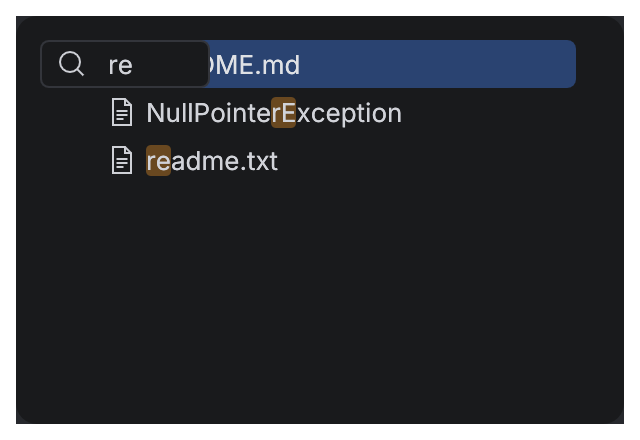
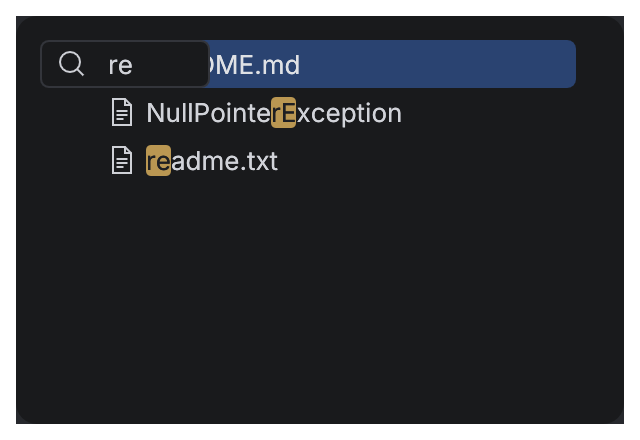
feat(theme): yellow search match with dark text, underlined menu mnemonics, New UI status bar 30
- Colors::search_match is Yellow5 (#BA9752) on the dark themes with a new
  search_match_text (dark) used by styled rows and table cells.
- ActionMenuItem::underlined(char) draws the mnemonic letter underlined.
- New UI look status bar is 30 (29 + 1 line), measured.

Claude-Session: https://claude.ai/code/session_01WPyuoiUPXsVNEFF3fwwQ11

Changed region(s): [[0.4062, 0.2068, 0.4688, 0.2955], [0.2188, 0.325, 0.2812, 0.4136]]

diff --git a/crates/archipel-kit/src/action_system/action_menu_item.rs b/crates/archipel-kit/src/action_system/action_menu_item.rs
@@ -2,7 +2,7 @@
 
 use crate::common;
 use crate::icons::{self, Glyph, Icon};
-use crate::parts::{SimpleColoredComponent, State, Tone};
+use crate::parts::{SimpleColoredComponent, SimpleTextAttributes, State, TextFragment, Tone};
 use crate::theme::Theme;
 use crate::tokens::{popup, size, typography};
 use egui::{
@@ -64,6 +64,8 @@ pub struct ActionMenuItem<'a> {
     fixed_width: Option<f32>,
     /// The label's tone (a combo box colors HTTP methods by it).
     label_tone: Tone,
+    /// The mnemonic letter, drawn underlined in the label.
+    underlined: Option<char>,
 }
 
 /// The content of a submenu.
@@ -88,6 +90,7 @@ impl<'a> ActionMenuItem<'a> {
             mnemonic: None,
             fixed_width: None,
             label_tone: Tone::Default,
+            underlined: None,
         }
     }
 
@@ -104,6 +107,28 @@ impl<'a> ActionMenuItem<'a> {
             item.description = Some(presentation.description.clone());
         }
         item
+    }
+
+    /// Draws the first `letter` of the label underlined, the item's mnemonic (case ignored; a
+    /// letter the label does not contain draws nothing). Typing it is the caller's to handle.
+    pub fn underlined(mut self, letter: char) -> Self {
+        self.underlined = Some(letter);
+        self
+    }
+
+    /// The label split around the underlined mnemonic: text before, the letter, text after.
+    fn mnemonic_split(&self) -> Option<(&str, &str, &str)> {
+        let letter = self.underlined?;
+        let (start, found) = self
+            .label
+            .char_indices()
+            .find(|(_, c)| c.eq_ignore_ascii_case(&letter))?;
+        let end = start + found.len_utf8();
+        Some((
+            &self.label[..start],
+            &self.label[start..end],
+            &self.label[end..],
+        ))
     }
 
     /// Engine use: the list owns highlight, submenus and closing.
@@ -234,12 +259,27 @@ impl Widget for ActionMenuItem<'_> {
             None => menu_icon_column(ui, icon.is_some() || self.checked.is_some()),
         };
         let has_arrow = self.submenu.is_some() || self.arrow;
+        let attributes = SimpleTextAttributes::new(self.label_tone);
+        let split = self.mnemonic_split();
+        let fragments = split.map_or_else(Vec::new, |(_, letter, after)| {
+            vec![
+                TextFragment {
+                    text: letter.to_owned(),
+                    attributes: attributes.underline(true),
+                },
+                TextFragment {
+                    text: after.to_owned(),
+                    attributes,
+                },
+            ]
+        });
         let content = SimpleColoredComponent {
+            fragments: &fragments,
             // A two-line item paints its larger icon itself.
             icon: if two_line { None } else { icon },
             icon_tone,
             reserve_icon: !two_line && reserve_icons,
-            label: &self.label,
+            label: split.map_or(self.label.as_str(), |(before, _, _)| before),
             label_tone: self.label_tone,
             secondary: None,
             trailing: self.shortcut.as_deref().filter(|_| !has_arrow),

diff --git a/crates/archipel-kit/src/theme.rs b/crates/archipel-kit/src/theme.rs
@@ -160,6 +160,9 @@ pub struct Colors {
     /// Background of the part of a row text that matches the speed search
     /// (`SimpleTextAttributes::STYLE_SEARCH_MATCH`; IntelliJ spec §3.4 `SearchMatch` Yellow7).
     pub search_match: Color32,
+    /// Text on [`Colors::search_match`]: dark on the dark themes' yellow so the match stays
+    /// readable (IDE UI spec UI-POP-004: `Yellow5` background with dark text).
+    pub search_match_text: Color32,
     /// Fill of the speed search popup (IntelliJ spec §3.4, §15.3 `SpeedSearch.background`).
     pub speed_search_background: Color32,
     /// 1 pt border of the speed search popup (IntelliJ spec §3.4 `SpeedSearch.borderColor`).
@@ -434,9 +437,10 @@ impl Theme {
                 control_selected: rgb(0x3574F0),
                 selection_inactive: rgb(0x33353B),
                 row_hover: rgba(0xFFFFFF10),
-                // Spec §3.4 lists only the light Yellow7 (#FEE6B1); dark uses the Islands
-                // warning border (#694820, spec §15.2) so the dark text stays readable.
-                search_match: rgb(0x694820),
+                // Measured in IntelliJ's New UI Dark (IDE UI spec UI-POP-004, `#B59252`..
+                // `#BA9752`, Yellow5) with dark text; spec §3.4 lists only the light Yellow7.
+                search_match: rgb(0xBA9752),
+                search_match_text: rgb(0x1E1F22),
                 // Spec §15.3 has the light values; dark takes the tool window background and
                 // the popup border of §15.2.
                 speed_search_background: rgb(0x191A1C),
@@ -615,6 +619,7 @@ impl Theme {
                 selection_inactive: rgb(0xE9EAEE),
                 row_hover: rgba(0x00000008),
                 search_match: rgb(0xFEE6B1),
+                search_match_text: rgb(0x000000),
                 speed_search_background: rgb(0xFFFFFF),
                 speed_search_border: rgb(0xEBECF0),
                 loading_veil: rgba(0xC8C8C8F0),

diff --git a/crates/archipel-kit/src/common.rs b/crates/archipel-kit/src/common.rs
@@ -31,6 +31,42 @@ pub(crate) fn galley_elided(ui: &Ui, text: &str, font: FontId, max_width: f32) -
     ui.painter().layout_job(job)
 }
 
+/// Like [`galley_elided`], with the characters in `marked` (character ranges, ascending and
+/// disjoint) in their own color: the text of a search match.
+pub(crate) fn galley_elided_marked(
+    ui: &Ui,
+    text: &str,
+    font: FontId,
+    max_width: f32,
+    marked: &[std::ops::Range<usize>],
+    marked_color: Color32,
+) -> Arc<Galley> {
+    let mut job = egui::text::LayoutJob::default();
+    let plain = egui::TextFormat::simple(font, Color32::PLACEHOLDER);
+    let hit = egui::TextFormat::simple(plain.font_id.clone(), marked_color);
+    let mut cursor = 0;
+    let boundaries: Vec<usize> = text
+        .char_indices()
+        .map(|(index, _)| index)
+        .chain(std::iter::once(text.len()))
+        .collect();
+    let byte = |chars: usize| boundaries[chars.min(boundaries.len() - 1)];
+    for range in marked {
+        let (start, end) = (byte(range.start).max(cursor), byte(range.end));
+        if start >= end {
+            continue;
+        }
+        job.append(&text[cursor..start], 0.0, plain.clone());
+        job.append(&text[start..end], 0.0, hit.clone());
+        cursor = end;
+    }
+    job.append(&text[cursor..], 0.0, plain);
+    job.wrap.max_width = max_width;
+    job.wrap.max_rows = 1;
+    job.wrap.break_anywhere = true;
+    ui.painter().layout_job(job)
+}
+
 /// Paints `galley` at `pos` in `color`, ignoring the style's global text color override.
 pub(crate) fn text(painter: &Painter, pos: Pos2, galley: Arc<Galley>, color: Color32) {
     painter.galley_with_override_text_color(pos, galley, color);

diff --git a/crates/archipel-kit/tests/menus.rs b/crates/archipel-kit/tests/menus.rs
@@ -17,12 +17,14 @@ fn menu_snapshot() {
             ui.add(
                 ActionMenuItem::new("Copy")
                     .icon(Glyph::Copy)
-                    .shortcut("Ctrl+C"),
+                    .shortcut("Ctrl+C")
+                    .underlined('C'),
             );
             ui.add(
                 ActionMenuItem::new("Find in Files…")
                     .icon(Glyph::FindInFiles)
-                    .shortcut("Ctrl+Shift+F"),
+                    .shortcut("Ctrl+Shift+F")
+                    .underlined('d'),
             );
             ui.add(ListSeparator::new());
             ui.add(ActionMenuItem::new("Soft-Wrap").checked(true));
@@ -61,6 +63,24 @@ fn action_menu_item_clicks_and_reports_check_state() {
     harness.get_by_label("Soft-Wrap").click();
     harness.run();
     assert!(!harness.state().1);
+}
+
+#[test]
+fn an_underlined_mnemonic_keeps_the_label_and_clicks() {
+    let mut harness = testing::harness_state(Theme::dark(), 0, |ui, clicks| {
+        if ui
+            .add(ActionMenuItem::new("Paste").underlined('p'))
+            .clicked()
+        {
+            *clicks += 1;
+        }
+        // A letter the label lacks draws no underline and changes nothing.
+        ui.add(ActionMenuItem::new("Cut").underlined('z'));
+    });
+    harness.get_by_label("Paste").click();
+    harness.run();
+    assert_eq!(*harness.state(), 1);
+    harness.get_by_label("Cut");
 }
 
 #[test]

diff --git a/crates/archipel-kit/src/ui/collections/mod.rs b/crates/archipel-kit/src/ui/collections/mod.rs
@@ -1153,7 +1153,18 @@ pub(super) fn paint_cell(
     };
     // Text wider than the column ends in an ellipsis, as in Android Studio's tables.
     let room = (rect.width() - 2.0 * CELL_PADDING - icon_width).max(0.0);
-    let galley = common::galley_elided(ui, cell.text.as_str(), font, room);
+    let matched = search.and_then(|search| search.matching_fragments(&cell.text));
+    let galley = match &matched {
+        Some(ranges) => common::galley_elided_marked(
+            ui,
+            cell.text.as_str(),
+            font,
+            room,
+            ranges,
+            colors.search_match_text,
+        ),
+        None => common::galley_elided(ui, cell.text.as_str(), font, room),
+    };
     let content = icon_width + galley.size().x;
     let mut x = match column.align {
         Align::Max => rect.right() - CELL_PADDING - content,
@@ -1168,7 +1179,7 @@ pub(super) fn paint_cell(
         x += icon_width;
     }
     // What the speed search matched, behind the text.
-    if let Some(ranges) = search.and_then(|search| search.matching_fragments(&cell.text)) {
+    if let Some(ranges) = matched {
         crate::parts::paint_ranges(
             &painter,
             &galley,

diff --git a/crates/archipel-kit/src/parts/text_attributes.rs b/crates/archipel-kit/src/parts/text_attributes.rs
@@ -249,7 +249,12 @@ pub(crate) fn layout_runs(
     for (piece, attributes) in runs {
         let start = text.len();
         text.push_str(piece);
-        let color = state.text(attributes.tone(), &colors);
+        // Matched text sits on the search match background and has its own color.
+        let color = if attributes.is_search_match() {
+            colors.search_match_text
+        } else {
+            state.text(attributes.tone(), &colors)
+        };
         job.sections.push(LayoutSection {
             leading_space: 0.0,
             byte_range: start..text.len(),

diff --git a/crates/archipel-kit/src/look.rs b/crates/archipel-kit/src/look.rs
@@ -565,7 +565,7 @@ impl Metrics {
         };
         let status_bar_height = match look {
             UiLook::Islands => dense(size::STATUS_BAR_HEIGHT, 25.0),
-            UiLook::NewUi => dense(31.0, 26.0),
+            UiLook::NewUi => dense(30.0, 25.0),
             UiLook::Classic => 23.0,
         };
         let island_gap = if islands {

diff --git a/docs/component-map.md b/docs/component-map.md
@@ -104,7 +104,7 @@ pointer and keyboard and recording the screen at 60 fps. The kit reproduces each
 | Hover | No fill in trees and lists (popup lists highlight like menus). The IntelliJ spec (section 3.1) lists hover colors `#00000008` / `#FFFFFF10` (`Colors::row_hover`), but the measurement of Android Studio shows none, so the kit keeps none. | `State::row_fill` |
 | Multiple selection | Neighboring selected rows join into one block, only the outer corners round (IntelliJ spec section 3.1; arc 8 is a 4 pt radius). Shift extends from the anchor, Ctrl/Cmd toggles, a right click keeps the selection when it lands inside it. | `ListSelectionModel`, `SelectionMode` |
 | Page keys | First to the edge of the view, then a page further (Swing `scrollUpChangeSelection`). No wrap at the ends (`ide.tree.ui.cyclic.scrolling.allowed` is off). | `JBList`, `Tree`, `JBTable`, `TreeTable` |
-| Speed search | Opens on a letter, digit or `*_-+"'/.#$>: ,;?!@%^&`; popup at the top-left (`SpeedSearch.background` `#FFFFFF`, border `#EBECF0` light; the kit takes the tool window background and popup border in the dark theme, height 24 pt and icon gaps are kit choices); stays open when emptied; arrows jump between matches. Match background `#FEE6B1` light (dark `#694820` is the kit's choice). | `SpeedSearch`, `Colors::search_match`, `Colors::speed_search_*`, `tokens::speed_search` |
+| Speed search | Opens on a letter, digit or `*_-+"'/.#$>: ,;?!@%^&`; popup at the top-left (`SpeedSearch.background` `#FFFFFF`, border `#EBECF0` light; the kit takes the tool window background and popup border in the dark theme, height 24 pt and icon gaps are kit choices); stays open when emptied; arrows jump between matches. Match background `#FEE6B1` light and `#BA9752` (Yellow5) dark with dark text `Colors::search_match_text` (measured in IntelliJ New UI Dark: Search Everywhere and Find in Files rows). | `SpeedSearch`, `Colors::search_match`, `Colors::speed_search_*`, `tokens::speed_search` |
 | Empty text | Centered gray lines, link fragments in the link color; default "Nothing to show" (IntelliJ spec section 13.7). | `StatusText` |
 | Loading panel | Veil rgba(200, 200, 200, 240) (light), shown after the start delay, spinner and text; fade-out time 0.2 s is a kit choice (the spec gives none). | `JBLoadingPanel`, `Colors::loading_veil`, `tokens::loading` |
 | Scroll bar fade | The 7 pt thumb (measured) brightens after 150 ms of hover over 125 ms and dims after 300 ms over 125 ms (IntelliJ spec section 13.1); `ScrollBar.width` is not in the spec, so the measured 7 pt stays. | `parts::ScrollBar`, `tokens::scroll_bar` |

diff --git a/docs/theme-mapping.md b/docs/theme-mapping.md
@@ -168,7 +168,7 @@ Source syntax is documented at the top of `tools/themes/mapping.py`.
 
 ## Fields without a mapping
 
-Kit fields that `mapping.py` does not list keep the measured value in every theme: `Colors::got_it`, `Colors::got_it_border`, `Colors::loading_veil`, `Colors::popup_mnemonic`, `Colors::search_match`, `Colors::speed_search_background`, `Colors::speed_search_border`, `EditorColors::change_added`, `EditorColors::change_deleted`, `EditorColors::change_modified`, `EditorColors::fold_marker`, `EditorColors::folded_background`, `EditorColors::folded_border`, `EditorColors::folded_text`, `EditorColors::indent_guide_selected`, `EditorColors::right_margin`, `EditorColors::search_stripe`, `EditorColors::selection_inactive`, `EditorColors::whitespace`.
+Kit fields that `mapping.py` does not list keep the measured value in every theme: `Colors::got_it`, `Colors::got_it_border`, `Colors::loading_veil`, `Colors::popup_mnemonic`, `Colors::search_match`, `Colors::search_match_text`, `Colors::speed_search_background`, `Colors::speed_search_border`, `EditorColors::change_added`, `EditorColors::change_deleted`, `EditorColors::change_modified`, `EditorColors::fold_marker`, `EditorColors::folded_background`, `EditorColors::folded_border`, `EditorColors::folded_text`, `EditorColors::indent_guide_selected`, `EditorColors::right_margin`, `EditorColors::search_stripe`, `EditorColors::selection_inactive`, `EditorColors::whitespace`.
 
 ## Fields that fell back to the measured values
 

diff --git a/docs/components/action-menu-item.md b/docs/components/action-menu-item.md
@@ -41,7 +41,7 @@ fn file_row(ui: &mut egui::Ui, wrap: &mut bool) {
 
 | Component | Builders |
 |---|---|
-| `ActionMenuItem::new(label)` | `.icon(Icon)`, `.shortcut(str)`, `.checked(bool)`, `.enabled(bool)`, `.description(str)` (a dimmed second line, larger icon), `.highlighted(bool)`, `.submenu(\|ui\| …)` |
+| `ActionMenuItem::new(label)` | `.icon(Icon)`, `.shortcut(str)`, `.checked(bool)`, `.enabled(bool)`, `.description(str)` (a dimmed second line, larger icon), `.highlighted(bool)`, `.underlined(char)` (the mnemonic letter drawn underlined; the caller handles typing it), `.submenu(\|ui\| …)` |
 | `ListSeparator::new()` | A line between groups; add it with `ui.add(ListSeparator::new())`. |
 | `ListSeparator::with_text(title)` | A dimmed semibold group title aligned with the icons; not focusable. |
 | `ActionMenuItem::from_presentation(&Presentation)` | Text, icon, shortcut text, description, enabled, toggle check, chevron for a popup group. |

diff --git a/docs/looks.md b/docs/looks.md
@@ -73,7 +73,7 @@ measurement with `tools/reference/`.
 | `button_gradient` | no | no | yes (`Button.startBackground` → `endBackground`) |
 | `island_gap` / `island_radius` | 4 / 10 (c 3 / 8) | 0 / 0 | 0 / 0 |
 | `split_divider` | the gap | 1 | 1 |
-| `status_bar_height` | 30 (c 25) | 31 (c 26) (est.) | 23 |
+| `status_bar_height` | 30 (c 25) | 30 (c 25) (29 + 1 line, measured in IntelliJ New UI Dark) | 23 |
 | `status_top_line` | 0 | 1 | 1 |
 | `status_hover_radius` | 4 | 2 | 0 |
 | `popup_padding` / `popup_item_inset` / `popup_item_padding` | 8 / 8 / 8 | 8 / 8 / 8 | 4 / 0 / 12 |
